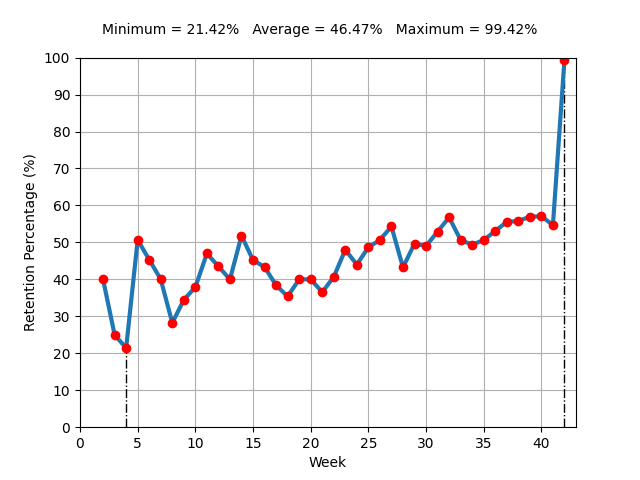
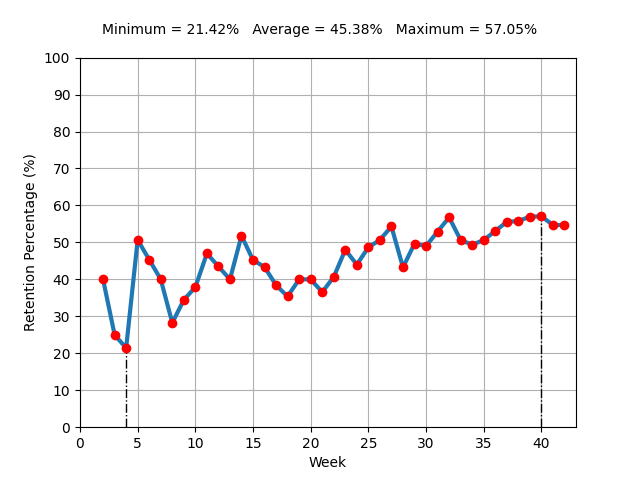
fix graphs

diff --git a/graphs/retention/creategraph.py b/graphs/retention/creategraph.py
@@ -52,7 +52,7 @@ for i in range(len(percentage)):
     percentage[i] *= 100
 
 #fix broken weeks
-brokenWeeks = (4, 10, 34)
+brokenWeeks = (4, 10, 34, 40)
 for broken in brokenWeeks:
     if broken + 2 == week:
         percentage[broken] = percentage[broken-1]

diff --git a/graphs/population/creategraph.py b/graphs/population/creategraph.py
@@ -44,7 +44,7 @@ with raw:
 raw.close()
 
 #fix broken weeks
-brokenWeeks = (5, 11, 35)
+brokenWeeks = (5, 11, 35, 41)
 for broken in brokenWeeks:
     if broken + 1 == week:
         limitvalue[broken] = limitvalue[broken-1]
